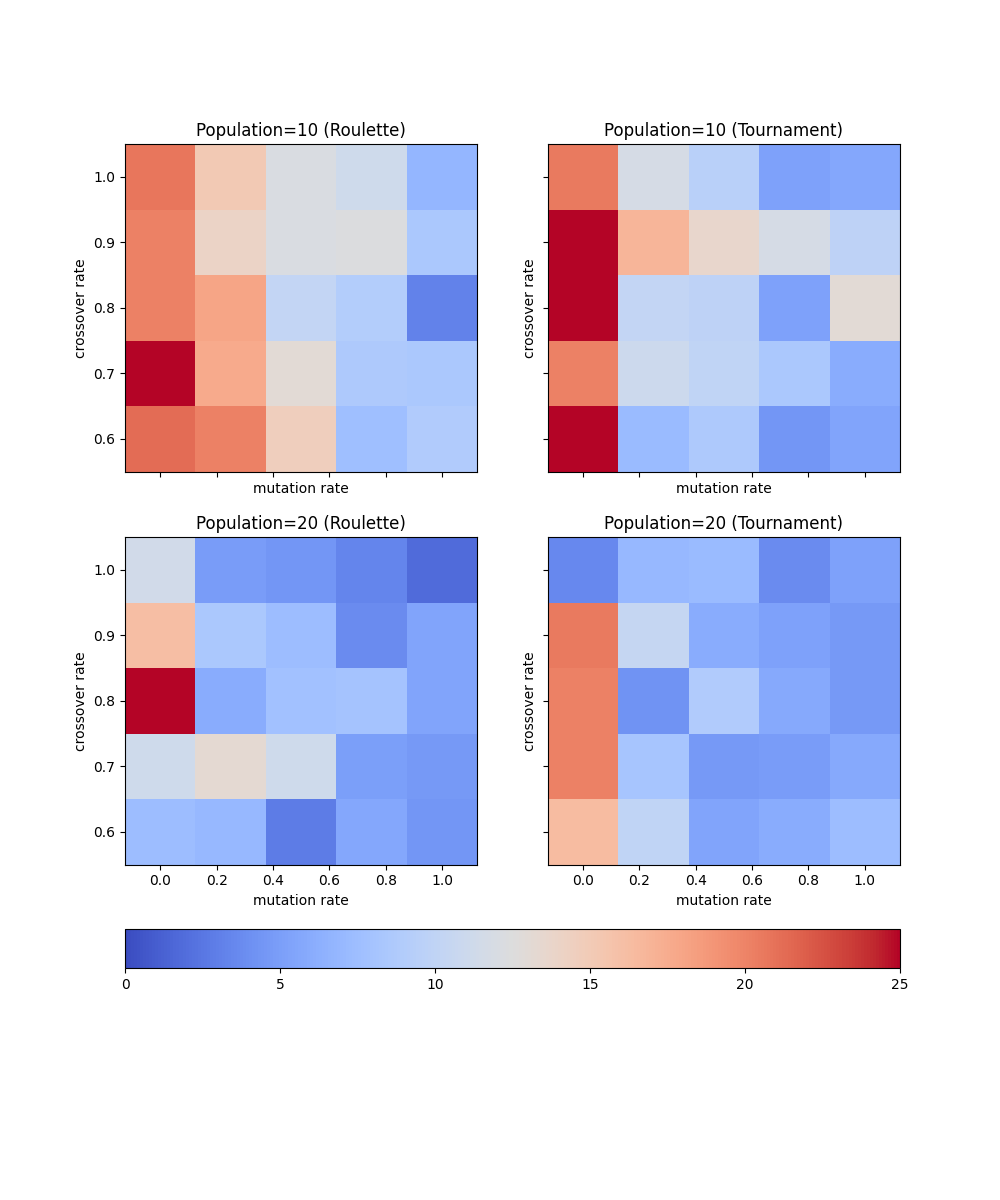
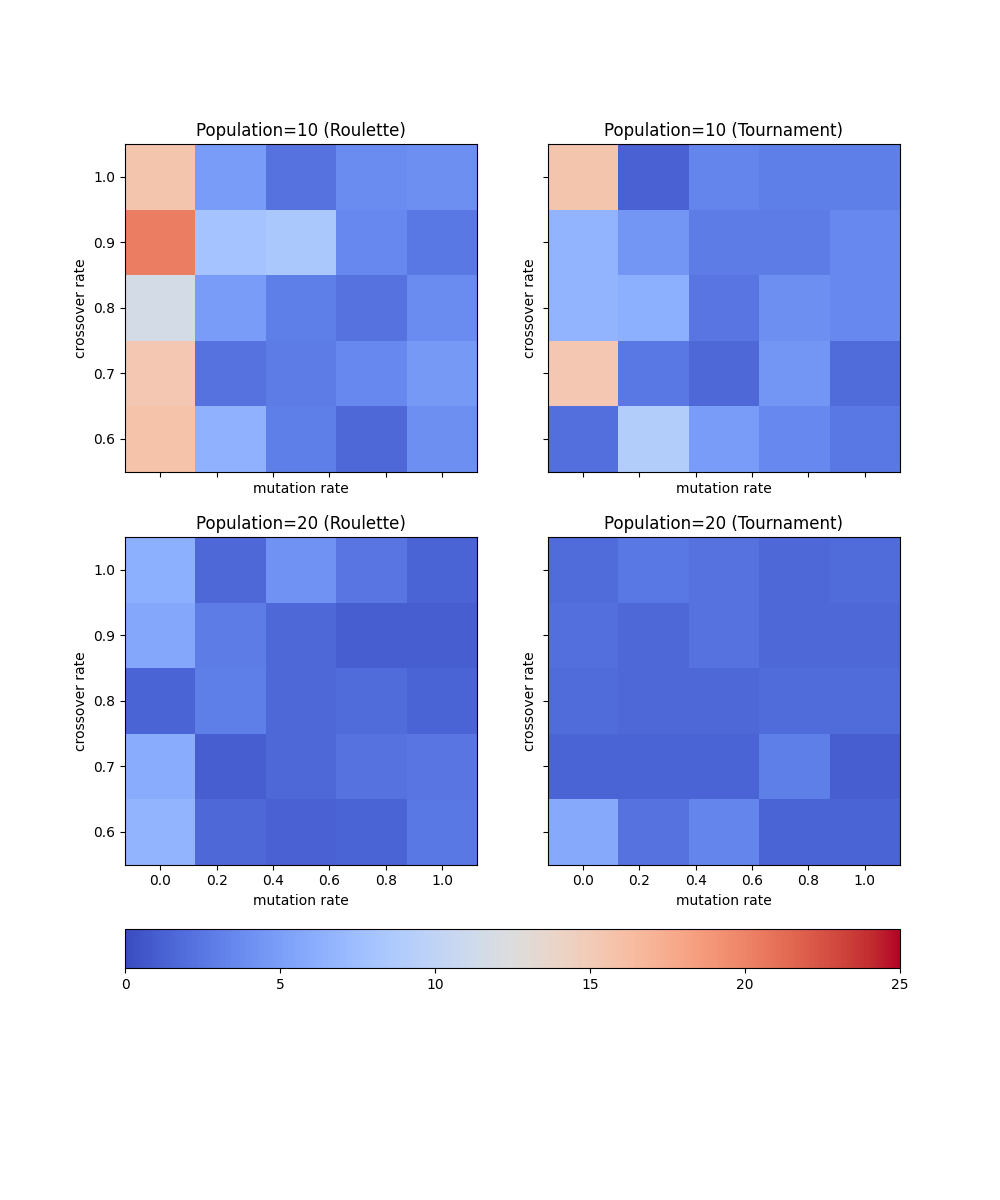
Corrigida simulação para escala logaritmica.

diff --git a/pre_analysis.py b/pre_analysis.py
@@ -11,8 +11,8 @@ def calc_efficiency(R1, R2):
   return Pout / Pin
 
 def plot_surface():
-  R1 = np.logspace(-2, 2, num=1000)
-  R2 = np.logspace(-2, 2, num=1000)
+  R1 = np.logspace(-2, 2, num=255)
+  R2 = np.logspace(-2, 2, num=255)
   ax = plt.figure().add_subplot(projection='3d')
   R1, R2 = np.meshgrid(R1, R2)
   surf = ax.plot_surface(R1, R2, calc_efficiency(R1, R2), cmap=cm.coolwarm)
@@ -22,7 +22,7 @@ def plot_surface():
   plt.savefig('fig/surface.png')
 
 def plot_efficiency_vs_r1():
-  R1 = np.logspace(-2, 5, num=1000)
+  R1 = np.logspace(-2, 5, num=255)
   plt.figure()
   plt.plot(R1, calc_efficiency(R1, 100_000), label="100kΩ")
   plt.plot(R1, calc_efficiency(R1, 1_000), label="1kΩ")
@@ -34,7 +34,7 @@ def plot_efficiency_vs_r1():
   plt.savefig('fig/efficiency_vs_r1.png')
 
 def plot_efficiency_vs_r2():
-  R2 = np.logspace(-2, 5, num=1000)
+  R2 = np.logspace(-2, 5, num=255)
   plt.figure()
   plt.plot(R2, calc_efficiency(100_000, R2), label="100kΩ")
   plt.plot(R2, calc_efficiency(1_000, R2), label="1kΩ")

diff --git a/sim_and_plots.py b/sim_and_plots.py
@@ -81,7 +81,6 @@ for result in (results_pop_10_roulette, results_pop_10_tournament, results_pop_2
           continue
         if sim_result[1] < 0.99:
           quant_nunca += 1
-          continue
         if len(scores_history) < 25:
           last_score = scores_history[len(scores_history) - 1]
           scores_history += [last_score] * (25 - len(scores_history))

diff --git a/simulation.py b/simulation.py
@@ -10,9 +10,10 @@ circuit.R(3, 2, circuit.gnd, Rl)
 simulator = circuit.simulator(temperature=25, nominal_temperature=25)
 
 def simulate(rs):
-	r1 = rs[0]
+	r1 = 10**rs[0]
+	r2 = 10**rs[1]
 	R1.resistance = r1
-	R2.resistance = rs[1]
+	R2.resistance = r2
 	analysis = simulator.operating_point()
 	V1 = float(analysis['2'])
 	Pout = V1 * V1 / Rl

diff --git a/index.py b/index.py
@@ -4,7 +4,7 @@ from numpy import divide, sum
 from functools import reduce
  
 # define range for resistor
-r_range = [0.01, 100_000]
+r_range = [-2, 5]
 # define range for input
 bounds = [r_range, r_range]
 # define the total iterations
